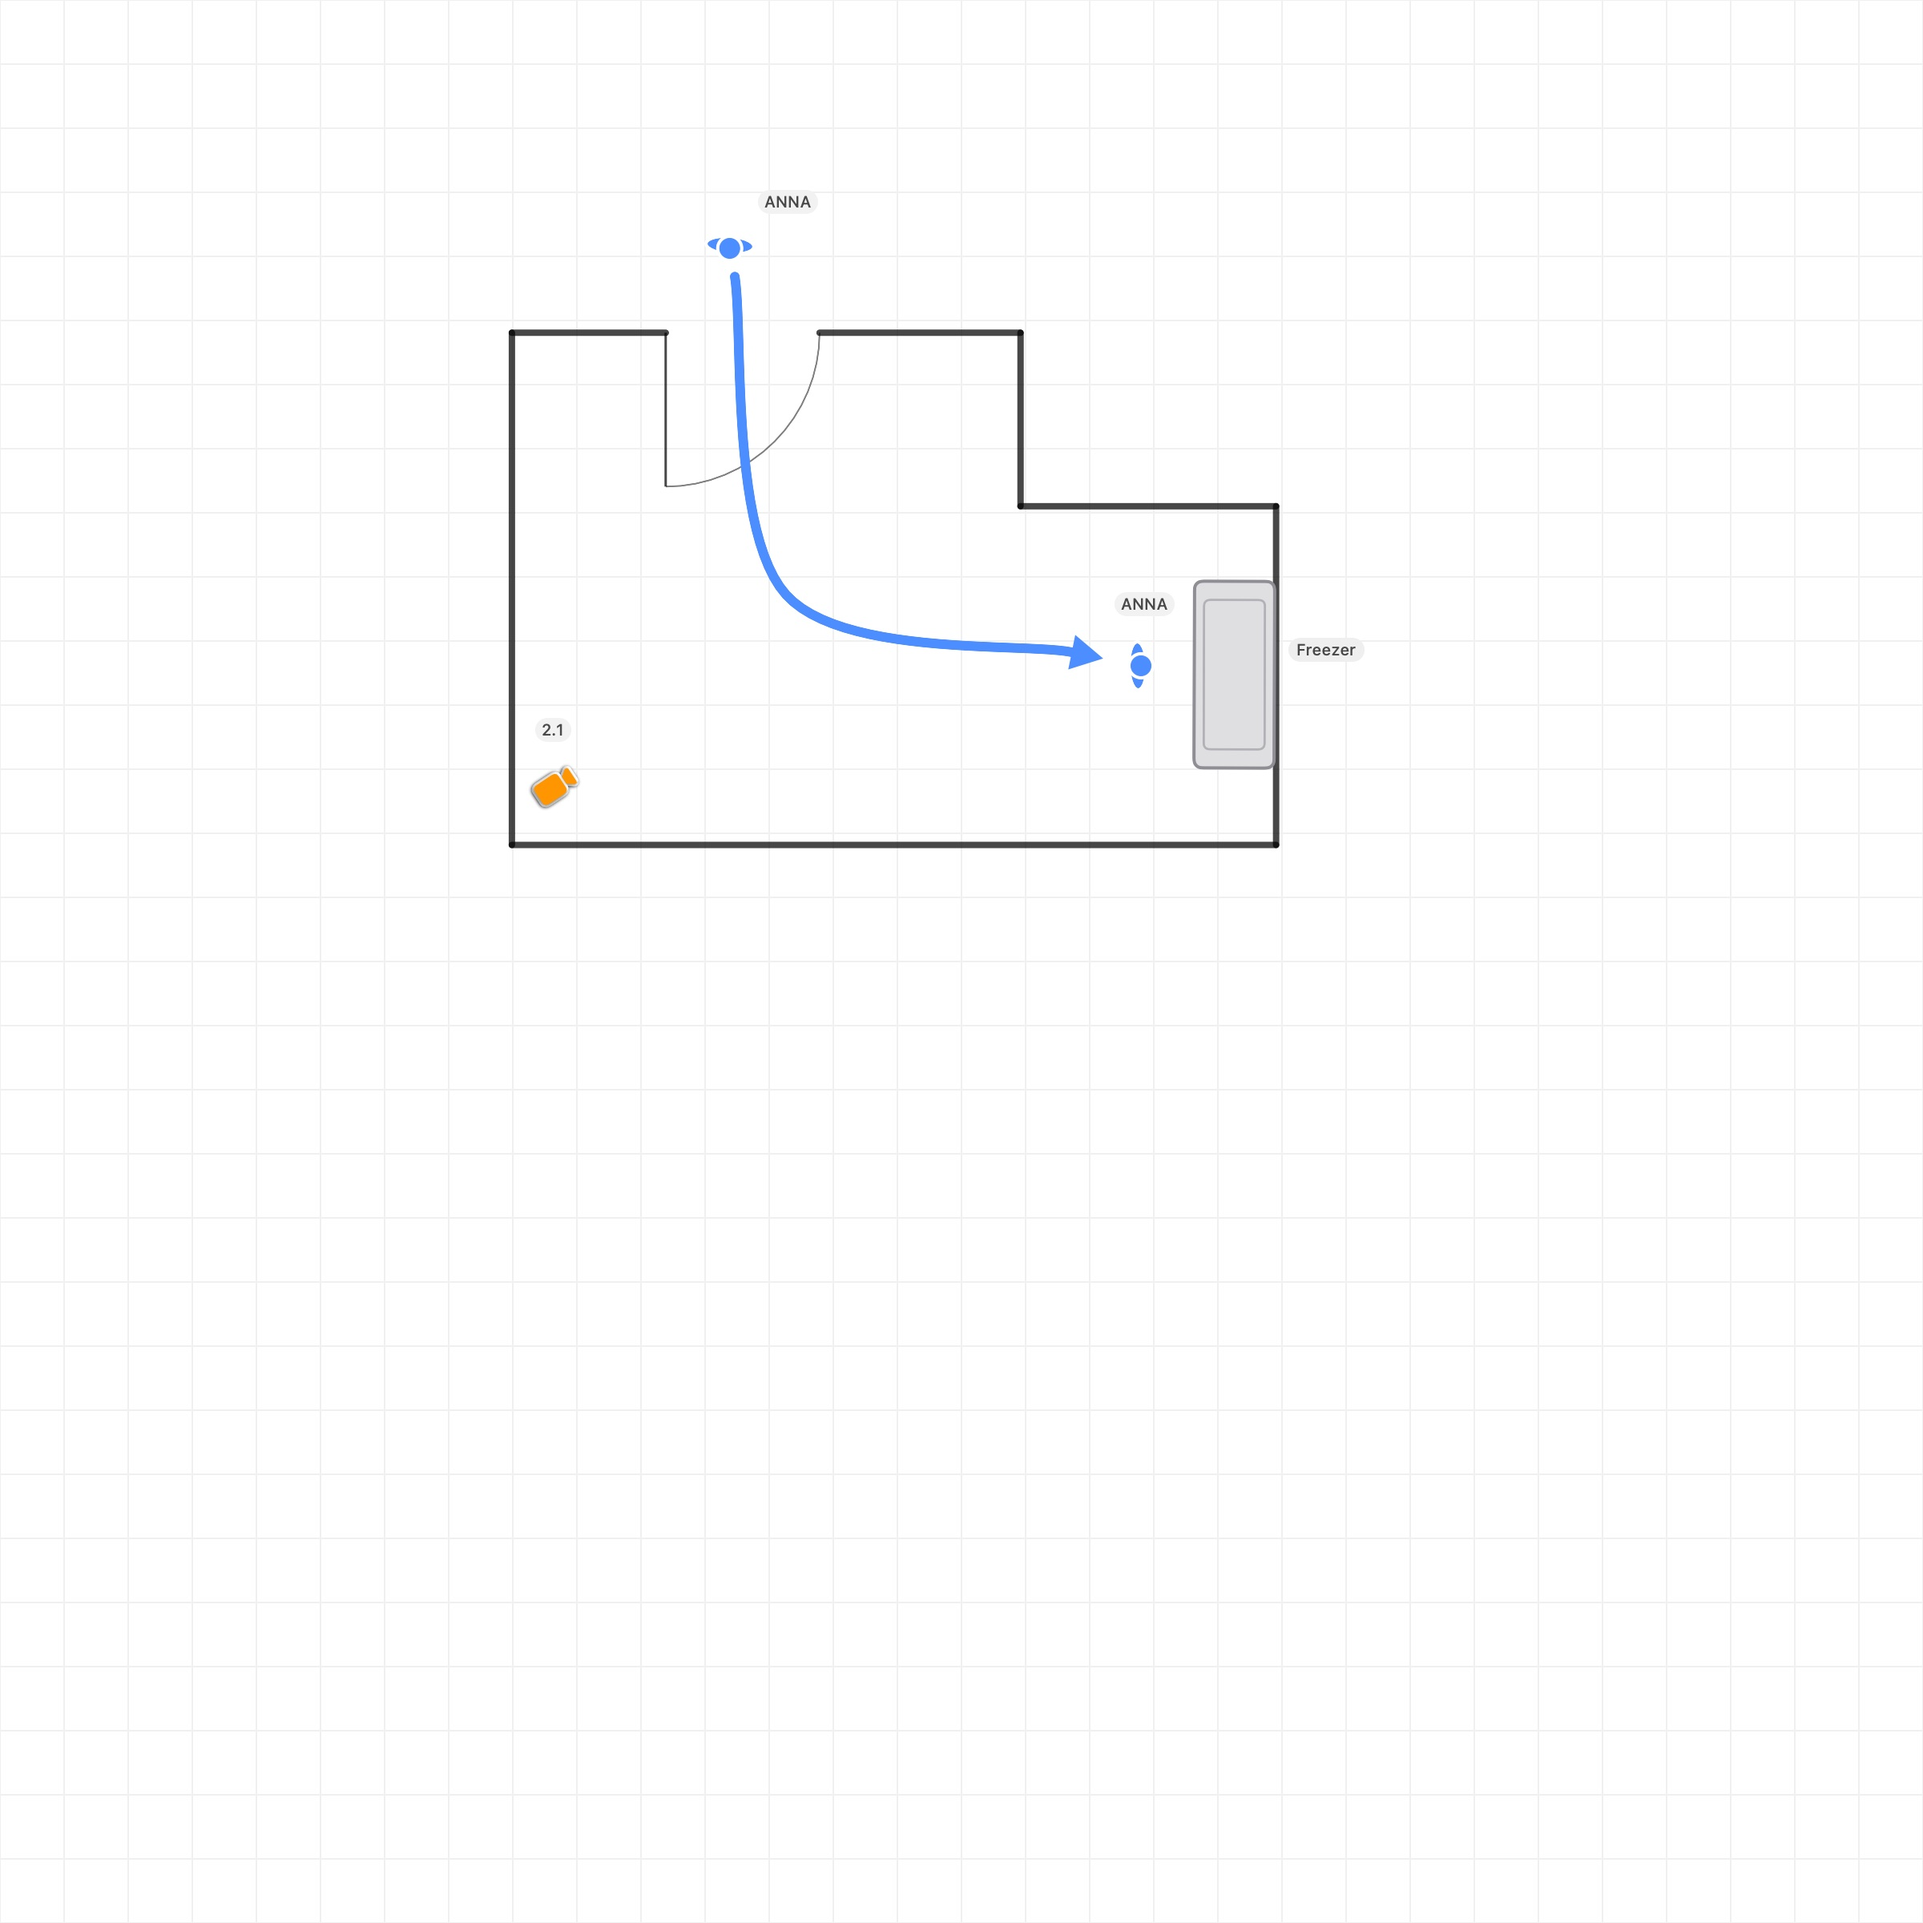
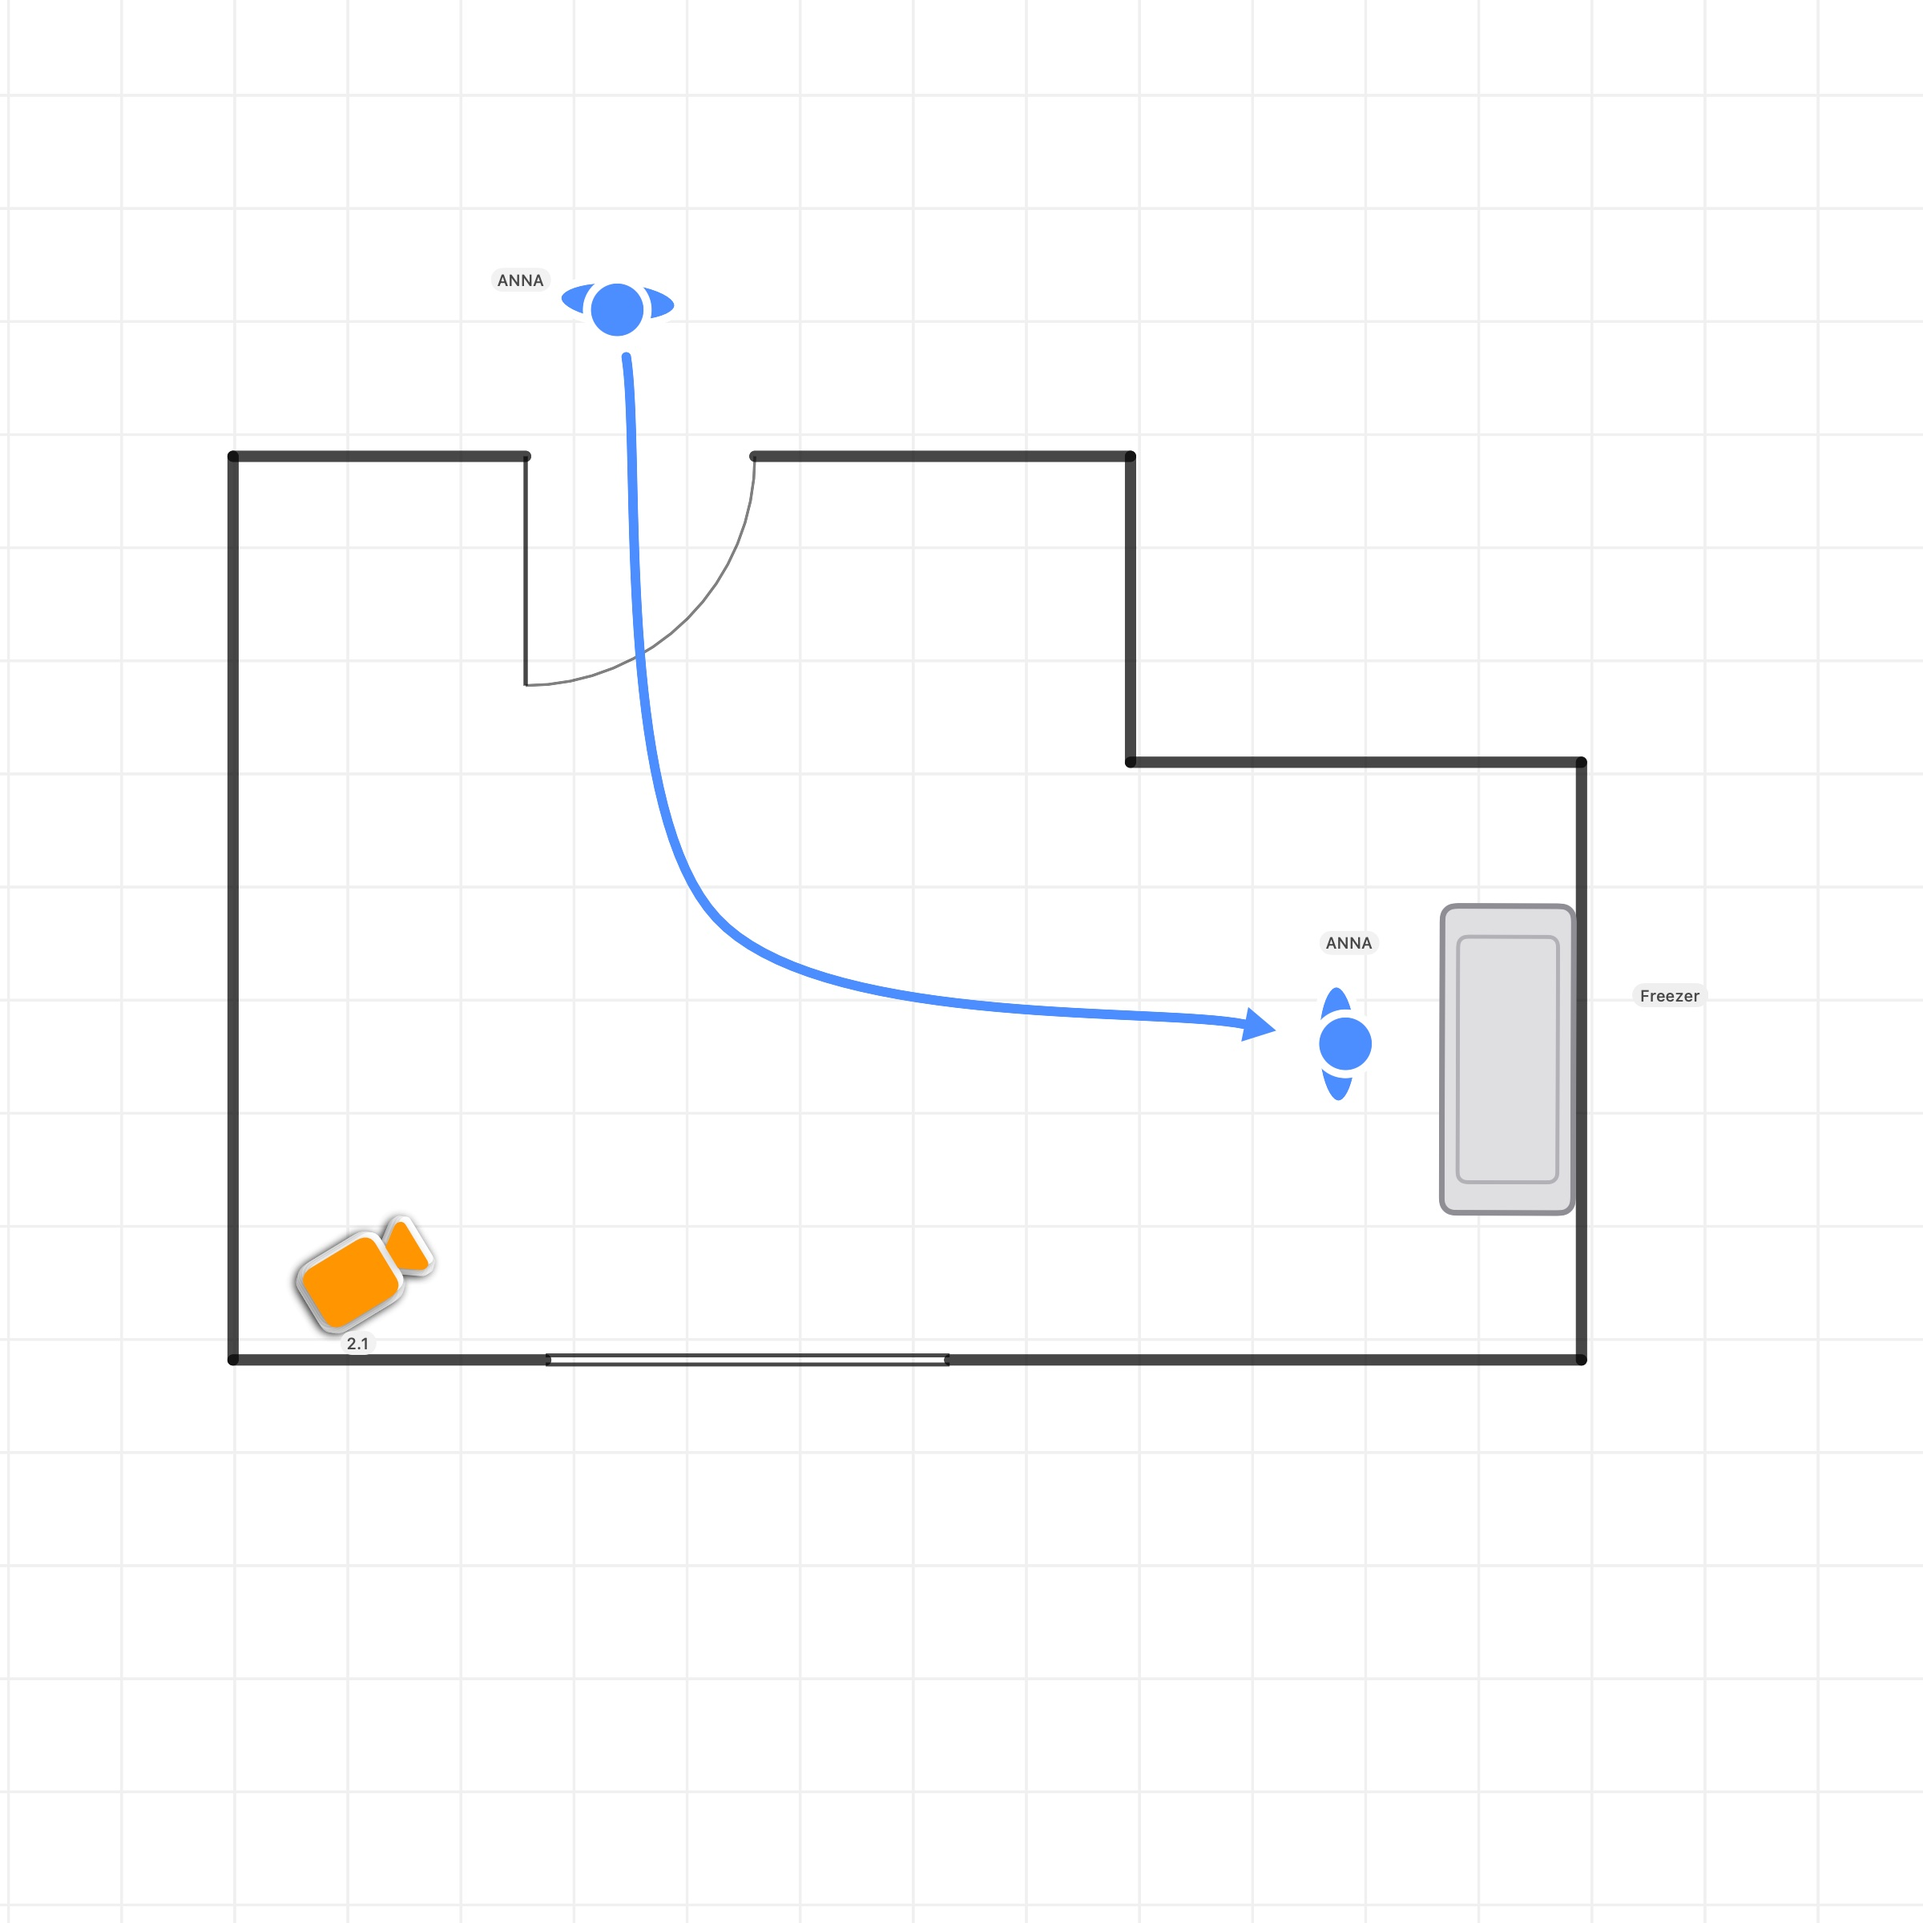
Publish shot list from CinePlanner

diff --git a/index.html b/index.html
@@ -46,8 +46,10 @@
   .credit:not(:last-child)::after { content: "·"; margin: 0 12px; color: var(--faint); }
   .credit b { color: var(--text); font-weight: 600; }
   .brandline { position: absolute; top: 30px; right: 28px; display: flex; align-items: center;
-               gap: 7px; font-size: 12px; color: var(--muted); }
+               gap: 7px; font-size: 12px; color: var(--muted); text-decoration: none; }
   .brandline b { color: var(--text); font-weight: 700; }
+  a.brandline:hover { color: var(--text); }
+  a.brandline:hover b { text-decoration: underline; }
   .brandlogo { width: 20px; height: 20px; display: block; flex: none;
                background: #fff; border-radius: 5px; box-shadow: 0 0 0 1px rgba(0,0,0,0.10); }
   /* On phones drop it back into the flow above the title so it can't overlap. */
@@ -445,8 +447,11 @@
           .cov-0-4 { background-image: url(media/cov_0_4.jpg); aspect-ratio: 1836 / 4794; }
           .map-0-4 { background-image: url(media/map_0_4.jpg); aspect-ratio: 1200 / 1200; --ar: 1.00000; }
           .cov-0-5 { background-image: url(media/cov_0_5.jpg); aspect-ratio: 1836 / 4794; }
+          .map-0-5 { background-image: url(media/map_0_5.jpg); aspect-ratio: 1200 / 1200; --ar: 1.00000; }
           .cov-0-6 { background-image: url(media/cov_0_6.jpg); aspect-ratio: 1836 / 4794; }
+          .map-0-6 { background-image: url(media/map_0_6.jpg); aspect-ratio: 1200 / 1200; --ar: 1.00000; }
           .cov-0-7 { background-image: url(media/cov_0_7.jpg); aspect-ratio: 1836 / 7212; }
+          .map-0-7 { background-image: url(media/map_0_7.jpg); aspect-ratio: 1200 / 1200; --ar: 1.00000; }
           .cov-0-8 { background-image: url(media/cov_0_8.jpg); aspect-ratio: 1836 / 4794; }
           .map-0-8 { background-image: url(media/map_0_8.jpg); aspect-ratio: 1200 / 1200; --ar: 1.00000; }
           .cov-0-9 { background-image: url(media/cov_0_9.jpg); aspect-ratio: 1836 / 4794; }
@@ -455,7 +460,7 @@
 </head>
 <body>
 <div class="masthead">
-  <div class="brandline">
+  <a class="brandline" href="https://apps.apple.com/nl/app/cineplanner/id6800298885" target="_blank" rel="noopener">
     <svg class="brandlogo" xmlns="http://www.w3.org/2000/svg" width="18" height="18" viewBox="0 0 100 100" aria-hidden="true">
       <defs><linearGradient id="cpg" x1="0" y1="0" x2="1" y2="0"><stop offset="0" stop-color="#3ECFFF"></stop><stop offset="1" stop-color="#1A4AFF"></stop></linearGradient></defs>
       <rect x="11.6" y="15.6" width="76.4" height="12.2" rx="6.1" fill="url(#cpg)"></rect>
@@ -464,7 +469,7 @@
       <rect x="11.6" y="71.1" width="48.1" height="12.2" rx="6.1" fill="url(#cpg)"></rect>
     </svg>
     <span>Made with <b>CinePlanner</b></span>
-  </div>
+  </a>
   <h1>Defrost <span class="title-tag">Shot List</span></h1>
   <div class="credits" id="credits" data-company="Fiction Production Company"><span class="credit"><b>Production Company</b> Fiction Production Company</span><span class="credit"><b>Director</b> John Doe</span><span class="credit"><b>Cinematographer</b> Yannick GIraud</span></div>
   
@@ -1729,6 +1734,7 @@ breath she has been holding since october. size cu type single focal length 85mm
     <span class="scene-loc">SUPERMARKET - FREEZER AISLE</span>
     <span class="scene-media">
       <details class="mi mi-doc"><summary onclick="event.stopPropagation()" title="Script with coverage for this scene"><span class="cover-thumb cov-0-5"></span><span class="thumb-label">Coverage</span></summary></details>
+      <details class="mi mi-map"><summary onclick="event.stopPropagation()" title="Scene map"><span class="cover-thumb is-map map-0-5"></span><span class="thumb-label">Scene map</span></summary></details>
     </span>
   </summary>
   <div class="shots">
@@ -1836,6 +1842,7 @@ case with the gentleness of a goodnight. size ws type two shot + profile shot fo
     <span class="scene-loc">ANNA'S BEDROOM</span>
     <span class="scene-media">
       <details class="mi mi-doc"><summary onclick="event.stopPropagation()" title="Script with coverage for this scene"><span class="cover-thumb cov-0-6"></span><span class="thumb-label">Coverage</span></summary></details>
+      <details class="mi mi-map"><summary onclick="event.stopPropagation()" title="Scene map"><span class="cover-thumb is-map map-0-6"></span><span class="thumb-label">Scene map</span></summary></details>
     </span>
   </summary>
   <div class="shots">
@@ -2008,6 +2015,7 @@ final click. size insert type profile shot focal length 35mm grip tripod camera 
     <span class="scene-loc">CELLAR</span>
     <span class="scene-media">
       <details class="mi mi-doc"><summary onclick="event.stopPropagation()" title="Script with coverage for this scene"><span class="cover-thumb cov-0-7"></span><span class="thumb-label">Coverage</span></summary></details>
+      <details class="mi mi-map"><summary onclick="event.stopPropagation()" title="Scene map"><span class="cover-thumb is-map map-0-7"></span><span class="thumb-label">Scene map</span></summary></details>
     </span>
   </summary>
   <div class="shots">
@@ -2776,7 +2784,7 @@ she hangs up. she leans over and blows out the lamp. size ws focal length 20mm g
 
 <button class="totop" id="totop" type="button" aria-label="Back to top" hidden>↑</button>
 
-<script>var CP_EPISODES = [[{"setups":3,"sunrise":"","n":1,"notes":"","iso":"2027-01-04","shots":11,"sunset":"","goldenAM":"","date":"Monday, 4 January 2027","goldenPM":"","entries":[{"s":0,"shots":["1.4","1.3","1.2","1.1"],"all":true,"note":""},{"shots":["4.2","4.1"],"s":3,"all":true,"note":""},{"all":true,"note":"","shots":["10.4","10.5","10.2","10.1","10.3"],"s":9}]},{"n":2,"date":"Tuesday, 5 January 2027","setups":4,"iso":"2027-01-05","goldenAM":"7:00–7:38","goldenPM":"16:21–16:59","shots":13,"entries":[{"shots":["5.2","5.3","5.4","5.1"],"s":4,"note":"","all":true},{"s":5,"note":"","all":true,"shots":["6.1","6.2"]},{"all":true,"shots":["2.2","2.1"],"s":1,"note":""},{"note":"","all":true,"shots":["8.1","8.5","8.2","8.3","8.4"],"s":7}],"notes":"During Supermarket Scenes, Pre-Light for cellar","sunrise":"7:00","sunset":"16:59"},{"n":3,"date":"Wednesday, 6 January 2027","shots":10,"notes":"During Ext scenes, Pre-Light for Bedroom","goldenPM":"16:27–17:11","setups":3,"sunrise":"7:49","entries":[{"all":true,"s":2,"shots":["3.1","3.4","3.2","3.3"],"note":""},{"all":true,"note":"","s":8,"shots":["9.3","9.2","9.1"]},{"s":6,"shots":["7.2","7.1","7.3"],"note":"","all":true}],"goldenAM":"7:49–8:32","iso":"2027-01-06","sunset":"17:11"}]].map(function (s) { return { schedule: s }; });</script>
+<script>var CP_EPISODES = [[{"n":1,"notes":"","date":"Monday, 4 January 2027","iso":"2027-01-04","shots":11,"sunrise":"","sunset":"","goldenPM":"","setups":3,"goldenAM":"","entries":[{"all":true,"s":0,"note":"","shots":["1.3","1.2","1.1","1.4"]},{"shots":["4.2","4.1"],"note":"","s":3,"all":true},{"all":true,"shots":["10.2","10.1","10.3","10.4","10.5"],"s":9,"note":""}]},{"entries":[{"s":4,"all":true,"shots":["5.4","5.1","5.2","5.3"],"note":""},{"shots":["6.1","6.2"],"all":true,"s":5,"note":""},{"shots":["2.1","2.2"],"all":true,"note":"","s":1},{"note":"","s":7,"all":true,"shots":["8.2","8.4","8.3","8.5","8.1"]}],"sunrise":"7:00","iso":"2027-01-05","goldenAM":"7:00–7:38","date":"Tuesday, 5 January 2027","notes":"During Supermarket Scenes, Pre-Light for cellar","n":2,"sunset":"16:59","setups":4,"goldenPM":"16:21–16:59","shots":13},{"n":3,"entries":[{"s":2,"all":true,"shots":["3.3","3.4","3.1","3.2"],"note":""},{"note":"","s":8,"all":true,"shots":["9.3","9.1","9.2"]},{"note":"","s":6,"all":true,"shots":["7.3","7.1","7.2"]}],"notes":"During Ext scenes, Pre-Light for Bedroom","iso":"2027-01-06","goldenAM":"7:49–8:32","setups":3,"sunset":"17:11","goldenPM":"16:27–17:11","date":"Wednesday, 6 January 2027","shots":10,"sunrise":"7:49"}]].map(function (s) { return { schedule: s }; });</script>
 <script>
 (function () {
   function qsa(sel, ctx) { return Array.prototype.slice.call((ctx || document).querySelectorAll(sel)); }
